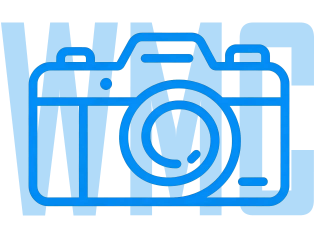
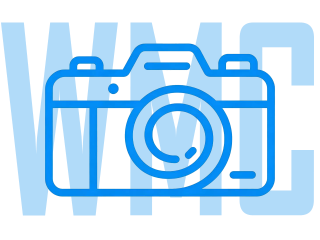
1.5.1
修复水印相机、下载计算器和随机数生成器页面无法分享的bug 20260427 1803CST

diff --git a/pages/camera-watermark/camera-watermark.js b/pages/camera-watermark/camera-watermark.js
@@ -246,5 +246,18 @@ Page({
         wx.showToast({ title: '保存失败，请检查权限', icon: 'none' });
       }
     });
+  },
+
+  onShareAppMessage() {
+    return {
+      title: '查人报班水印相机',
+      path: '/pages/camera-watermark/camera-watermark'
+    };
+  },
+
+  onShareTimeline() {
+    return {
+      title: '查人报班水印相机'
+    };
   }
 });

diff --git a/pages/download-calculator/download-calculator.js b/pages/download-calculator/download-calculator.js
@@ -185,5 +185,18 @@ Page({
       const totalSeconds = fileSizeBytes / speedBytesPerSec;
       this.setData({ result: '下载时间: ' + this.formatTime(totalSeconds) });
     }
+  },
+
+  onShareAppMessage() {
+    return {
+      title: '下载计算器',
+      path: '/pages/download-calculator/download-calculator'
+    };
+  },
+
+  onShareTimeline() {
+    return {
+      title: '下载计算器'
+    };
   }
 });

diff --git a/pages/random-number/random-number.js b/pages/random-number/random-number.js
@@ -244,5 +244,18 @@ Page({
       combinationFormula: `${iN}! / (${iR}! × ${iN - iR}!)`
     });
     this.setData({ pnc });
+  },
+
+  onShareAppMessage() {
+    return {
+      title: '随机数生成器',
+      path: '/pages/random-number/random-number'
+    };
+  },
+
+  onShareTimeline() {
+    return {
+      title: '随机数生成器'
+    };
   }
 });